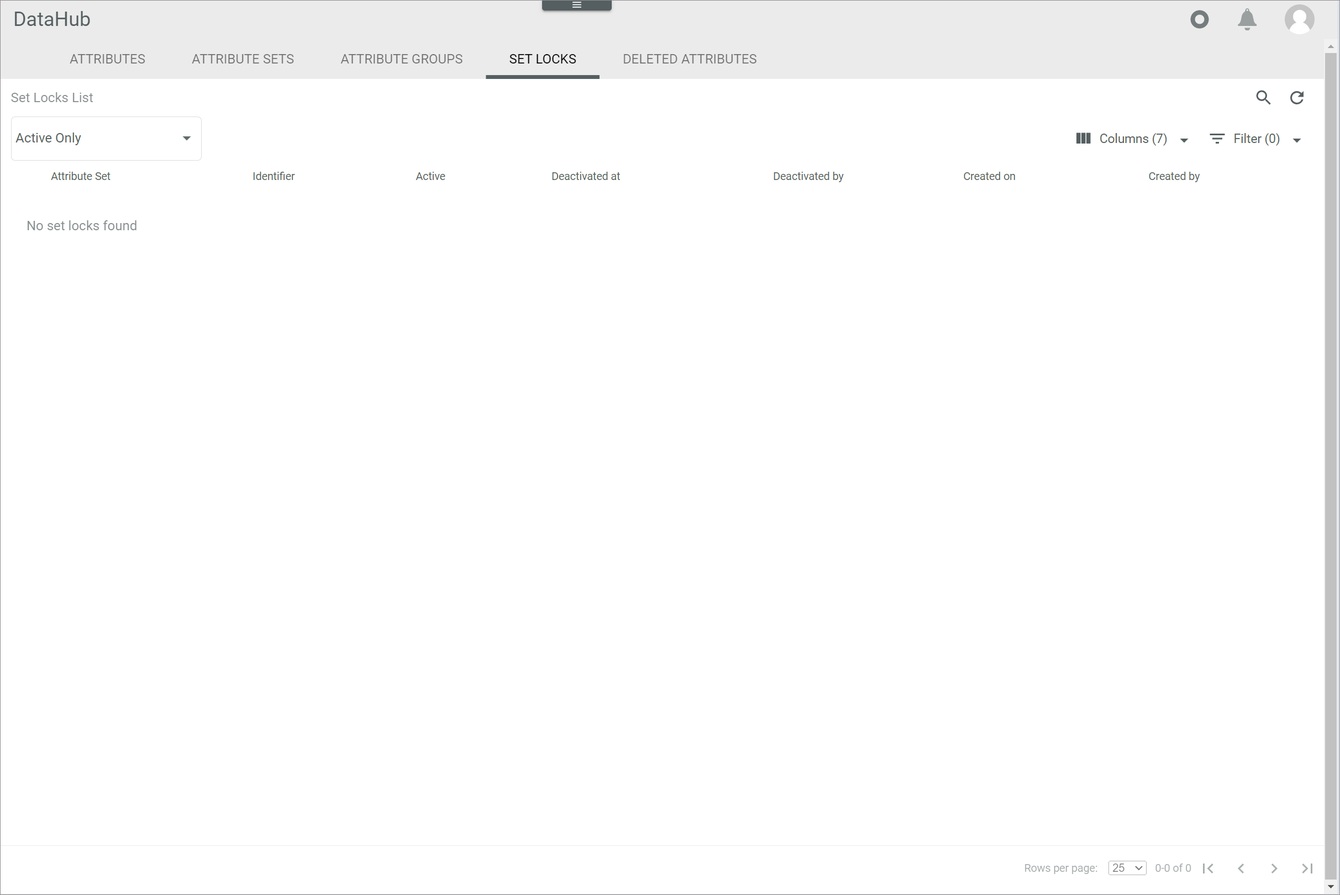
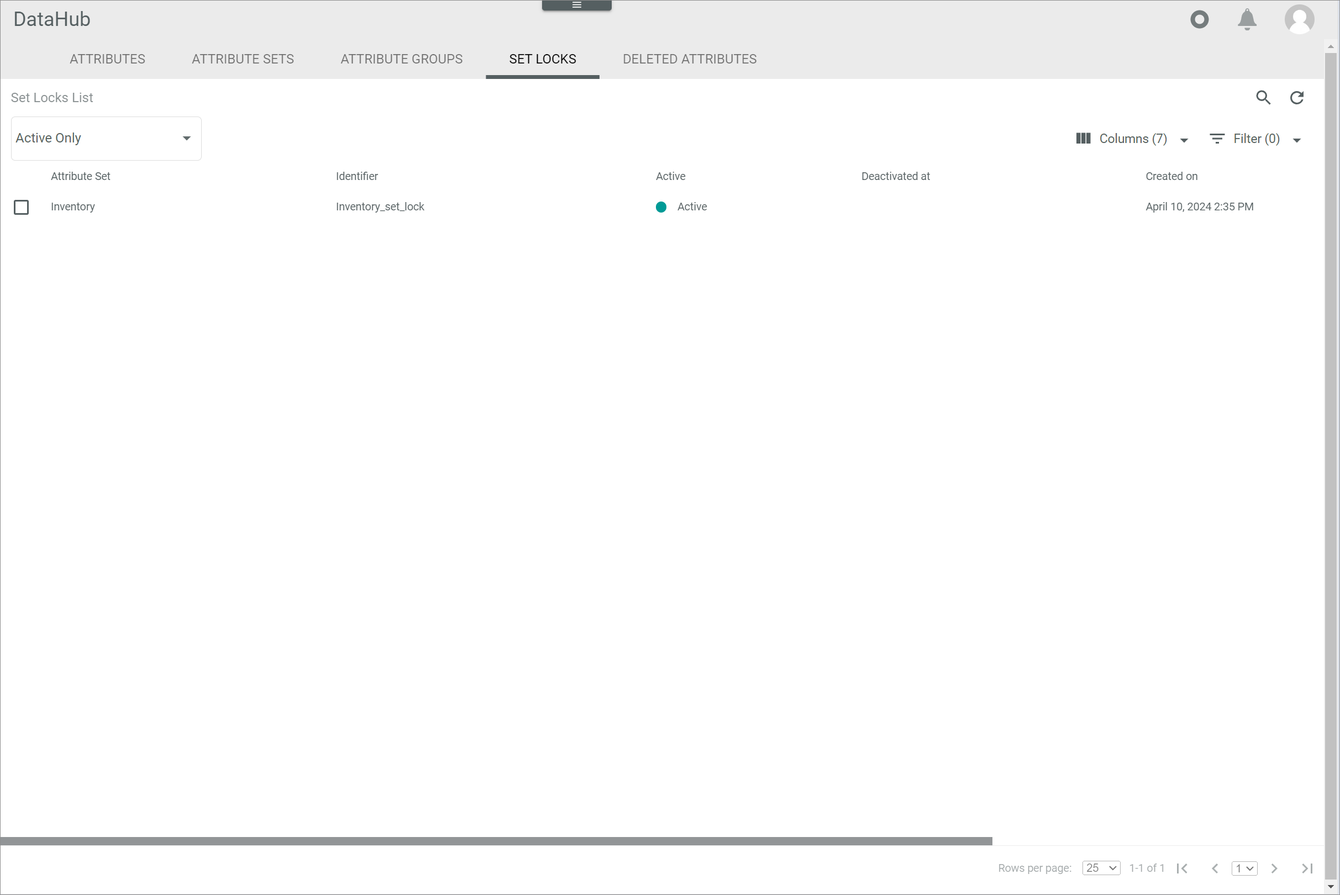
ACD-1041
Docu review corrections

diff --git a/DataHub/Integration/01_ManageAttributes.md b/DataHub/Integration/01_ManageAttributes.md
@@ -2,17 +2,19 @@
 [!!User interface Attributes](../UserInterface/01a_Attributes.md)
 [!!Data type list](../UserInterface/05_DataTypeList.md)
 [!!Manage a product in PIM](../../PIM/Operation/01_ManageProducts.md)
-[!!Manage a variant set in PIM](../../PIM/Integration/07_ManageVariantSets.md)
 
 # Manage an attribute
 
-An attribute defines a characteristic to describe a product. You can create attributes, edit attributes, and deactivate or delete attributes that are not in use.
-Further, you can add attributes to an attribute set or remove them from an attribute set.  
+An attribute defines a characteristic to describe an entity, for example, a *PIM* product or a *Fulfillment* dispatch note. When describing a product, you need attributes such as *Name*, *Price*, and *SKU*. To describe a dispatch note, on the other hand, you may use attributes such as *Carrier*, *Shipment status*, and *Tracking number*. The entity attributes are then provided with a value in the specific entity, such as an individual product. For example, a black shirt in size M has a name (Actindo shirt), a price (50.00 EUR), and an SKU (BLK-ACT-SHIRT-M), all its specific attributes and values that describe that individual product. 
+
+[comment]: <> (Simon: Bitte prüfen und bestätigen)
+
+You can create attributes, edit attributes, and deactivate or delete attributes that are not in use. Further, you can add attributes to an attribute set or remove them from an attribute set.  
 In the *DataHub* module, attributes from all plugins are displayed.
 
 ## Create an attribute
 
-Create an attribute to specify a new property for a product.
+Create an attribute to specify a new property for an entity type.
 
 #### Prerequisites
 
@@ -33,14 +35,14 @@ No prerequisites to fulfill.
 
     > [Info] If you want to provide the attribute name and description in different languages in the system, you can select the desired system language in the "Language" drop-down list on top of this view. By default, the following options are currently available: English (United States) and Deutsch (Deutschland). 
 
-[comment]: <> (zu prüfen) 
+[comment]: <> (Simon: Bitte prüfen) 
 
 3. Select a data type in the *Data type* drop-down list.   
     Depending on the selected data type, the *Contains sensitive data* toggle and the *CONFIGURATION* section are displayed. For detailed information about all data types, see [Data type list](../UserInterface/05_DataTypeList.md). 
 
    > [Info] The settings displayed in the *CONFIGURATION* section depend on the selected data type.
 
-4. Enter a key for the attribute in the *Key* field. The key is required for API access and must be system wide unique. An attribute key must fulfill the following criteria:
+4. Enter a key for the attribute in the *Key* field. The key is required for API access and must be system-wide unique. An attribute key must fulfill the following criteria:
     - valid characters are **a-z** (upper and lower case), **0-9** and the underscore ( **_** )
     - the key must not start with a number
     - a double underscore ( **___** ) and a trailing underscore are forbidden
@@ -51,7 +53,7 @@ No prerequisites to fulfill.
 
 5. If desired, enable the *Multi-language* toggle to assign values in multiple languages to the attribute or enable the *Multi-scope* toggle to assign different attribute values in different scopes.
 
-    > [Info] Be aware that only attributes which are neither multi-language nor multi-scope can be used as defining attributes for variants. For detailed information, see [Create a variant set](../../PIM/Integration/07_ManageVariantSets.md#create-a-variant-set).
+    > [Info] Be aware that only attributes which are neither multi-language nor multi-scope can be used as defining attributes for variants. For detailed information, see [Create a variant set](../Integration/07_ManageVariantSets.md#create-a-variant-set).
 
 6. If required, enable the *Contains sensitive data* toggle if the potential attribute values may be sensitive, such as name, date of birth, or zip code.
 
@@ -85,7 +87,7 @@ The attribute key is locked but can be modified in exceptional cases, for exampl
 
 > [Caution] Attribute keys are used for API access. Changing the attribute key, which is strongly discouraged, has an impact on the API naming for all affected entities where this attribute is included. That means that all external API consumers, workflows, webhooks, or other custom code need to be adjusted accordingly in case any of them address this attribute.
 
-[comment]: <> (zu prüfen)
+[comment]: <> (Simon: Bitte prüfen)
 
 The assignment of an attribute to an attribute set must be changed in the attribute set itself, see [Edit an attribute set](./02_ManageAttributeSets.md#edit-an-attribute-set).   
 
@@ -123,7 +125,7 @@ At least one attribute has been created, see [Create an attribute](#create-an-at
 
 ## Deactivate an attribute
 
-It is recommended to deactivate an attribute instead of deleting it to prevent any problems because of existing dependencies. If you deactivate an attribute, it is no longer available for new attribute sets and it is hidden in existing products with this attribute.   
+It is recommended to deactivate an attribute instead of deleting it to prevent any problems because of existing dependencies. If you deactivate an attribute, it is no longer available for new attribute sets and it is hidden in existing entities with this attribute.   
 
 However, the values previously stored in an attribute are not deleted when the attribute is deactivated. As soon as the attribute is reactivated, the stored values are also visible again.   
 
@@ -159,9 +161,9 @@ At least one attribute has been created, see [Create an attribute](#create-an-at
 
 ## Delete an attribute
 
-You can move an attribute to the *DELETED ATTRIBUTES* tab if it is no longer needed. Attributes that are assigned as defining attributes to any variant set cannot be deleted. 
+You can move an attribute to the *DELETED ATTRIBUTES* tab if it is no longer needed. Attributes that are assigned as defining attributes to any variant set cannot be deleted. For detailed information on variant sets, see [Manage a variant set](./07_ManageVariantSets.md). 
 
-As there are usually dependencies on an attribute, for example through an attribute set or created products, it is strongly recommended not to delete an attribute. Instead, you can deactivate an attribute and thus prevent its use, see [Deactivate an attribute](#deactivate-an-attribute).
+As there are usually dependencies on an attribute, for example, through an attribute set or created products, it is strongly recommended not to delete an attribute. Instead, you can deactivate an attribute and thus prevent its use, see [Deactivate an attribute](#deactivate-an-attribute).
 
 #### Prerequisites
 

diff --git a/DataHub/Integration/02_ManageAttributeSets.md b/DataHub/Integration/02_ManageAttributeSets.md
@@ -5,8 +5,11 @@
 
 # Manage an attribute set
 
-An attribute set consists of multiple attributes to classify certain products according to demand or production contexts.
-Several plugins may bring their own attribute sets as a starting point for the tenant's configuration, such as the *PIM* module.
+An attribute set consists of multiple attributes to classify entities, such as the different types of products, according to demand or production contexts. For example, if you are selling clothes, you may need to define an attribute set for shirts and another one for trousers. The attributes contained in each attribute set will differ, as the shirts will include the attribute *Collar size*, whereas the trousers will have the attribute *Waist size*. The same is valid for other entities, such as dispatch notes or packaging types. You can define different types on these entities depending on your specific needs.
+
+Several plugins may bring their own attribute sets as a starting point for the tenant's configuration, such as *PIM basic set* in the *PIM* module or the *Packaging type basic set* in the *Fulfillment* module.
+
+[comment]: <> (Simon: Bitte prüfen und bestätigen)
 
 You can create attribute sets, edit existing attribute sets and deactivate attribute sets that are not in use.
 You can add attributes to or remove attributes from an attribute set and change the required attributes within an attribute set.
@@ -43,7 +46,7 @@ Additional attributes for the attribute set have been created, see [Create an at
 
     > [Info] If you want to provide the attribute set name and description in different languages in the system, you can select the desired system language in the "Language" drop-down list on top of this view. By default, the following options are currently available: English (United States) and Deutsch (Deutschland). 
 
-3. Enter a key for the attribute set in the *Key* field. The key is required for API access and must be system wide unique. An attribute set key must fulfill the following criteria:
+3. Enter a key for the attribute set in the *Key* field. The key is required for API access and must be system-wide unique. An attribute set key must fulfill the following criteria:
     - valid characters are **a-z** (upper and lower case), **0-9** and the underscore ( **_** )
     - the key must not start with a number
     - a double underscore ( **___** ) and a trailing underscore are forbidden
@@ -149,7 +152,9 @@ After you have created an attribute set, you can edit it.
 Depending on the selected inheritance type, only a certain number of attributes may be editable.
 However, you can add further attributes to an attribute set or remove unmapped attributes from an attribute set.
 
-> [Info] If the *Locked* toggle is enabled, this means that the attribute set is currently undergoing maintenance and therefore cannot be edited. An overview of all locked attribute sets is displayed in the *SET LOCKS* tab, see [Attribute set locks](../UserInterface/01d_AttributeSetLocks.md).
+> [Info] If the *Locked* toggle is enabled, this means that the attribute set is currently undergoing maintenance. No entity that is assigned to this attribute set can be read or written as long as the lock is in place. An overview of all locked attribute sets is displayed in the *SET LOCKS* tab, see [Attribute set locks](../UserInterface/01d_AttributeSetLocks.md).
+
+[comment]: <> (Simon: Bitte prüfen: In Attribute set list Ansicht, gibt es ein LOCK-Button im Editing Toolbar. Das sollte aber abgebaut werden, da die LOCK-Funktion eine interne Housekeeping-Maßnahme sein soll. RS mit Julian dazu. Bitte bestätigen.)
 
 ### Add an attribute to the set
 
@@ -220,9 +225,11 @@ Inherited attributes or mapped attributes cannot be removed from an attribute se
 
 ### Change the required attributes in the set
 
-The product completeness is calculated depending on the required attributes within an attribute set.
+The entity completeness, such as the product completeness in the *PIM* module, is calculated depending on the required attributes within an attribute set.
 All required attributes are marked with a *(required)* indication in the product view.
-Note that entities can be saved even if not all *(required)* attributes are completed.   
+Note that entities can be saved even if not all *(required)* attributes are completed.  
+
+[comment]: <> (Simon: Bitte prüfen: entity completeness ist korrekt, also, completeness calculation ist möglich für alle Entitäten gelten, sobald man ein Attribut des Datentypen Completeness im Satz gesetzt ist. Richtig?)
 
 You can define whether an attribute should be required or not.
 Bear in mind that inherited attributes can only be changed in the origin attribute set and the required status is also inherited to the linked attribute sets.   

diff --git a/DataHub/Integration/07_ManageVariantSets.md b/DataHub/Integration/07_ManageVariantSets.md
@@ -9,7 +9,7 @@ You can create a variant set for a *PIM* product or an *Omni-Channel* offer. A v
 
 You can manage the variant sets both in the *PIM* and the *Omni-Channel* modules depending on your specific module configuration, since the two modules are independent of each other. If both the *Omni-Channel* and the *PIM* modules are used, there is a predefined mapping that automatically applies the variant sets from *PIM* to *Omni-Channel*. Otherwise, you can manage the variant sets directly in your *Omni-Channel* module. The data displayed differ slightly, as only the attributes that are relevant for *PIM* or *Omni-Channel* are displayed in the respective module. The functionality itself, however, is based on the data models defined in the *DataHub* module. 
 
-[comment]: <> (zu prüfen)
+[comment]: <> (Simon: Bitte prüfen:)
 
 
 ## Create a variant set
@@ -47,15 +47,15 @@ An attribute set has been created, see [Create an attribute set](./02_ManageAttr
 
     ![Formulas](../../Assets/Screenshots/DataHub/Others/Formulas.png "[Formulas]")
 
-4. Enter a formula for the variants SKU in the *Formula for SKU* field using the displayed placeholders. By default, you can enter the formula **{master}-{L}**.   
+4. If desired, enable the *Copy values of changeable attributes to variant when creating a new variant* toggle. It is recommended to enable it.
+
+    > [Info] This feature makes it easier for you to link independently created products and establish a master-variant relationship between them. For example, if you have the same T-shirt in different colors, all the colored T-shirts should be subordinated as variants to a master T-shirt. If this toggle is enabled, the changeable attributes values, which are different per variant, are copied from the parent entity when creating a new variant, so that you just have to update the values if necessary. 
+
+[comment]: <> (Simon: Bitte prüfen: Kopiert vom Master-Entität ist richtig? Bitte prüfen und ggf. korrigieren/ergänzen.)
+
+5. Enter a formula for the variants SKU in the *Formula for SKU* field using the displayed placeholders. By default, you can enter the formula **{master}-{L}**.   
 
     > [Info] The value of the defining attributes can be included into the SKU formula. When you have added a defining attribute, the corresponding placeholder for this attribute is displayed in the *Formulas* section.
-
-5. If desired, enable the *Copy values of changeable attributes to variant when creating a new variant* toggle. It is recommended to enable it.
-
-    > [Info] This feature makes it easier for you to associate independently created products and create a master-variant relationship between them. For example, if you have the same T-shirt in different colors, all the color T-shirts should be added as variants to a master T-shirt. If this toggle is enabled, the changeable attributes and its values, which are different pro variant, are copied once when creating the variant, so that you just have to update the values if necessary. 
-
-[comment]: <> (zu prüfen)
 
 6. For the next steps to create a variant set, follow the procedures below:   
     - [Add defining attributes](#add-defining-attributes)
@@ -65,6 +65,10 @@ An attribute set has been created, see [Create an attribute set](./02_ManageAttr
 
 
 ### Add defining attributes
+
+A defining attribute is the characteristic that defines the variation of an entity. For example, in the case of a *PIM* product, such as a piece of clothing, color or size can be defining attributes. 
+
+[comment]: <> (Simon: Bitte prüfen und ggf. ergänzen/verbessern)
 
 You have to select at least one defining attribute to create a variant set. You can only select attributes as defining attributes that are neither multi-language nor multi-channel and that are assigned to the selected attribute set.
 
@@ -105,6 +109,10 @@ You have to select at least one defining attribute to create a variant set. You 
 
 
 ### Add changeable attributes
+
+Unlike defining attributes, changeable attributes do not define the variation within a master entity. They are simply additional characteristics that can differ between the different variants entities. For example, in the case of a *PIM* product, EAN code, stock amount, image, or price can be changeable attributes.
+
+[comment]: <> (Simon: Bitte prüfen und ggf. ergänzen/verbessern)
 
 You can select changeable attributes for a variant set. If you want to define an attribute for the variants whose value may differ from its master product value, you have to define this attribute as a changeable attribute.
 

diff --git a/DataHub/UserInterface/01a_Attributes.md b/DataHub/UserInterface/01a_Attributes.md
@@ -119,7 +119,7 @@ The *Create attribute* view contains all fields and configurations that define t
     Click the drop-down list and select an attribute data type. The ![Add](../../Assets/Icons/Plus05.png "[Add]") (Add) button in the *Assigned attribute sets* field is unlocked.   
 
 - *Key*   
-    Enter an attribute key. The key is required for API access and must be system wide unique. An attribute key must fulfill the following criteria:
+    Enter an attribute key. The key is required for API access and must be system-wide unique. An attribute key must fulfill the following criteria:
     - valid characters are **a-z** (upper and lower case), **0-9** and the underscore ( **_** )
     - the key must not start with a number
     - a double underscore ( **___** ) and a trailing underscore are forbidden
@@ -136,7 +136,7 @@ The *Create attribute* view contains all fields and configurations that define t
     Enable this toggle to set the attribute status to active. Disable the toggle to set the status to inactive. By default, this toggle is enabled.
 
 - ![Toggle](../../Assets/Icons/Toggle.png "[Toggle]") *Contains sensitive data*   
-    Enable this toggle if the potential attribute values may be sensitive. This toggle is only displayed after selecting certain data types in the *Data type* drop-down list. By default, this toggle is disabled.
+    Enable this toggle if the attribute values may be sensitive. This toggle is only displayed after selecting certain data types in the *Data type* drop-down list. By default, this toggle is disabled.
 
 - *Assigned attribute sets*   
     Click the drop-down list and select an attribute set to which the attribute is assigned after creation. All active attribute sets are displayed. This drop-down list is only displayed if you have previously clicked the ![Add](../../Assets/Icons/Plus05.png "[Add]") (Add) button.
@@ -211,7 +211,7 @@ The *Edit attribute* view contains all fields and configurations that define the
     Enable this toggle to set the attribute status to active. Disable the toggle to set the status to inactive. By default, this toggle is enabled.
 
 - ![Toggle](../../Assets/Icons/Toggle.png "[Toggle]") *Contains sensitive data*   
-    Enable this toggle if the potential attribute values may be sensitive. By default, this toggle is disabled.
+    Enable this toggle if the attribute values may be sensitive. By default, this toggle is disabled.
 
 **CONFIGURATION**
 
@@ -244,10 +244,13 @@ The list displays all attributes. Depending on the settings, the displayed colum
     - ![Cross](../../Assets/Icons/Cross02.png "[Cross]") (Cross): The attribute is not inherited.
 
 - *Calculated field*   
-    Indication whether the attribute (field) value is calculated by an ETL mapping from other field(s) in the same entity to itself or not:
+    Indication whether the attribute is a *Calculated field* in the attribute set or not. 
     - ![Check](../../Assets/Icons/Check.png "[Check]") (Checkmark): The attribute is a calculated field.   
     - ![Cross](../../Assets/Icons/Cross02.png "[Cross]") (Cross): The attribute is no calculated field.
 
+    > [Info] The value of an attribute marked as "Calculated field" is not manually modified. Instead of that, the value is calculated, through an ETL mapping, from other attribute or attributes in the same entity.
+
+[comment]: <> (Simon: Bitte prüfen. Kann man das im UI einstellen? Oder Ist ein Interner Datentyp?)
 
 ### Update attribute key
 

diff --git a/DataHub/UserInterface/08_VariantSets.md b/DataHub/UserInterface/08_VariantSets.md
@@ -120,7 +120,7 @@ The following functions and fields are available in this box:
     Attribute name.
 
 - *Key*   
-    Attribute key. The key is required for API access and must be system wide unique.
+    Attribute key. The key is required for API access and must be system-wide unique.
 
 - *Data type*   
     Attribute data type.   
@@ -150,7 +150,7 @@ The following functions and fields are available in this box:
     Attribute name.
 
 - *Key*   
-    Attribute key. The key is required for API access and must be system wide unique.
+    Attribute key. The key is required for API access and must be system-wide unique.
 
 - *Data type*   
     Attribute data type.   
@@ -219,7 +219,7 @@ The following functions and fields are available in this box:
     Attribute name.
 
 - *Key*   
-    Attribute key. The key is required for API access and must be system wide unique.
+    Attribute key. The key is required for API access and must be system-wide unique.
 
 - *Data type*   
     Attribute data type.   
@@ -249,7 +249,7 @@ The following functions and fields are available in this box:
     Attribute name.
 
 - *Key*   
-    Attribute key. The key is required for API access and must be system wide unique.
+    Attribute key. The key is required for API access and must be system-wide unique.
 
 - *Data type*   
     Attribute data type.   
@@ -290,7 +290,7 @@ The following functions and fields are available in this view:
     Attribute name.
 
 - *Key*   
-    Attribute key. The key is required for API access and must be system wide unique.
+    Attribute key. The key is required for API access and must be system-wide unique.
 
 - *Data type*   
     Attribute data type.    
@@ -328,7 +328,7 @@ The following functions and fields are available in this view:
     Attribute name.
 
 - *Key*   
-    Attribute key. The key is required for API access and must be system wide unique.
+    Attribute key. The key is required for API access and must be system-wide unique.
 
 - *Data type*   
     Attribute data type.   

diff --git a/DataHub/UserInterface/06_AttributesTab.md b/DataHub/UserInterface/06_AttributesTab.md
@@ -12,7 +12,7 @@ This tab is not part of the *DataHub* module, but it is used in many other *Core
 
 The list displays all attributes that define the selected entity. An entity is a data object that can be identified uniquely and is defined by means of its attributes. An entity can be a *PIM* product or an *Omni-Channel* offer, but also a business document, such as a dispatch note. 
 
-Depending on the entity, you can edit different attribute values. For example, in the case of the entity *PIM* single product, displayed in the screenshot, you can edit the product name, the long text, EAN code, assign images for a product, etc. The attribute values you can edit vary from one entity to another. The fields of the attribute values that cannot be edited are locked. To edit an attribute or create a new one, you have to go to the *DataHub* module. For detailed information, see [Manage the attributes](../Integration/01_ManageAttributes.md).     
+Depending on the entity, you can edit different attribute values. For example, in the case of the entity *PIM* single product, displayed in the screenshot, you can edit the product name, the long text, EAN code, assign images to a product, etc. The attribute values you can edit vary from one entity to another. Tne, you can use the *DataHub* module or the *PIM* module for product-related attributes. For detailed information, see [Manage the attributes](../Integration/01_ManageAttributes.md).     
 
 In the left margin column, all available attribute groups of the entity are displayed. Click an attribute group to display the attributes that are assigned to this group on the right side of the *Attributes* tab. If the entity contains attributes that are not assigned, the *Unassigned group* attribute group is automatically displayed in the left margin column.
 

diff --git a/DataHub/UserInterface/03b_Languages.md b/DataHub/UserInterface/03b_Languages.md
@@ -71,7 +71,7 @@ The following functions and fields are available in this view:
     Enter a language name in the selected language.
 
 - *Key*   
-    Enter a language key. The key is required for API access and must be system wide unique. The language key must fulfill the criteria of the language codes according to [RFC 4646](https://www.heise.de/netze/rfc/rfcs/rfc4646.shtml). For instance, keys with the following structure are valid:
+    Enter a language key. The key is required for API access and must be system-wide unique. The language key must fulfill the criteria of the language codes according to [RFC 4646](https://www.heise.de/netze/rfc/rfcs/rfc4646.shtml). For instance, keys with the following structure are valid:
     - **en**
     - **en_US**
     - **en-US**
@@ -108,7 +108,7 @@ The following functions and fields are available in this view:
 
 - *Key*   
     Click the field to edit the language key. It is not recommended to change the language key after creation.   
-    The key is required for API access and must be system wide unique. The language key must fulfill the criteria of the language codes according to [RFC 4646](https://www.heise.de/netze/rfc/rfcs/rfc4646.shtml). For instance, keys with the following structure are valid:
+    The key is required for API access and must be system-wide unique. The language key must fulfill the criteria of the language codes according to [RFC 4646](https://www.heise.de/netze/rfc/rfcs/rfc4646.shtml). For instance, keys with the following structure are valid:
     - **en**
     - **en_US**
     - **en-US**

diff --git a/DataHub/UserInterface/01b_AttributeSets.md b/DataHub/UserInterface/01b_AttributeSets.md
@@ -106,7 +106,7 @@ The *Create attribute set* view contains all the fields and configurations that 
     Enter a description to the attribute set in the selected language.
 
 - *Key*   
-    Enter an attribute set key. The key is required for API access and must be system wide unique. An attribute set key must fulfill the following criteria:
+    Enter an attribute set key. The key is required for API access and must be system-wide unique. An attribute set key must fulfill the following criteria:
     - valid characters are **a-z** (upper and lower case), **0-9** and the underscore ( **_** )
     - the key must not start with a number
     - a double underscore ( **___** ) and a trailing underscore are forbidden
@@ -229,9 +229,11 @@ The following functions and fields are available in this section:
     Attribute name.
 
 - *Calculated field*   
-    Indication whether the attribute (field) value is calculated by an ETL mapping from other field(s) in the same entity to itself or not:
+    Indication whether the attribute is a *Calculated field* in the attribute set or not. 
     - ![Check](../../Assets/Icons/Check.png "[Check]") (Checkmark): The attribute is a calculated field.   
     - ![Cross](../../Assets/Icons/Cross02.png "[Cross]") (Cross): The attribute is no calculated field.
+
+    > [Info] The value of an attribute marked as "Calculated field" is not manually modified. Instead of that, the value is calculated, through an ETL mapping, from other attribute or attributes in the same entity.
 
 - *Key*   
     Attribute key.

diff --git a/DataHub/UserInterface/01d_AttributeSetLocks.md b/DataHub/UserInterface/01d_AttributeSetLocks.md
@@ -22,23 +22,19 @@ The attribute set locks list displays all attribute sets that have been locked f
     Name of the attribute set locked for maintenance.
 
 - *Identifier*  
-    Attribute set identification number.
-
-[comment]: <> (Stimmt das so? Vgl. unten ID-Spalte)
+    Attribute set lock unique identifier. 
 
 - *Active*  
-    Indication whether the attribute set lock is active or not:
-    - ![Check](../../Assets/Icons/Check.png "[Check]") (Checkmark): The attribute set lock is active.  
-    - ![Cross](../../Assets/Icons/Cross02.png "[Cross]") (Cross): The attribute set lock is not active.
+    Indication whether the attribute set lock is currently in place (*Active*) or not (*Inactive*). If the attribute set lock is listed as *Active*, the corresponding attribute set cannot be edited in the *ATTRIBUTE SET* tab, see [Edit an attribute set](../Integration/02_ManageAttributeSets.md#edit-an-attribute-set).   
 
 - *Deactivated at*    
-    Date and time of the last deactivation.
+    Date and time of the attribute set lock deactivation.
 
 - *Deactivated by*  
     Name and username of the user who deactivated the attribute set lock.
 
 - *Created on*   
-    Date and time of the creation.
+    Date and time of the attribute set lock creation.
 
 - *Created by*   
     Name and username of the user who created the attribute set lock.

diff --git a/DataHub/UserInterface/07_DependenciesTab.md b/DataHub/UserInterface/07_DependenciesTab.md
@@ -4,7 +4,7 @@
 
 ![Dependencies](../../Assets/Screenshots/DataHub/Others/Dependencies.png)
 
-This tab is not part of the *DataHub* module, but it is used in many other *Core1 Platform* modules that refer to information coming from the the *DataHub* module.  
+This tab is not part of the *DataHub* module, but it is used in many other *Core1 Platform* modules that refer to information coming from the *DataHub* module.  
 
 **Dependencies**
 
@@ -37,7 +37,7 @@ The following functions are available for the editing toolbar:
 - [RERUN MAPPING]   
     Click this button to rerun the mapping of the selected entity or entities. This button is only displayed if the checkbox of at least one dependency is selected.
 
-[comment]: <> (Kommt hier ein Bestätigungsfenster wie im ETL mapping? In der Sandbox funktioniert nicht oder passiert nichts.)
+[comment]: <> (Simon: Kommt hier ein Bestätigungsfenster wie im ETL mapping? In der Sandbox funktioniert nicht oder passiert nichts.)
 
 - [DELETE DEPENDENCY]  
     Click this button to delete the dependency of the selected entity. This button is only displayed if the checkbox of one dependency is selected. 

diff --git a/DataHub/Integration/05_ManageLanguages.md b/DataHub/Integration/05_ManageLanguages.md
@@ -31,7 +31,7 @@ No prerequisites to fulfill.
 
     > [Info] If you want to provide the language name and description in different languages in the system, you can select the desired system language in the "Language" drop-down list on top of this view. By default, the following options are currently available: English (United States) and Deutsch (Deutschland). 
 
-3. Enter a key for the language in the *Key* field. The key is required for API access and must be system wide unique. The language key must fulfill the criteria of the language codes according to [RFC 4646](https://www.heise.de/netze/rfc/rfcs/rfc4646.shtml "[https://www.heise.de/netze/rfc/rfcs/rfc4646.shtml]"). For instance, keys with the following structure are valid:
+3. Enter a key for the language in the *Key* field. The key is required for API access and must be system-wide unique. The language key must fulfill the criteria of the language codes according to [RFC 4646](https://www.heise.de/netze/rfc/rfcs/rfc4646.shtml "[https://www.heise.de/netze/rfc/rfcs/rfc4646.shtml]"). For instance, keys with the following structure are valid:
     - en
     - en_US
     - en-US

diff --git a/DataHub/Integration/04_ManageScopes.md b/DataHub/Integration/04_ManageScopes.md
@@ -34,7 +34,7 @@ No prerequisites to fulfill.
 
     > [Info] If you want to provide the scope name and description in different languages in the system, you can select the desired system language in the "Language" drop-down list on top of this view. By default, the following options are currently available: English (United States) and Deutsch (Deutschland). 
 
-3. Enter a key for the scope in the *Key* field. The key is required for API access and must be system wide unique. A scope key must fulfill the following criteria:
+3. Enter a key for the scope in the *Key* field. The key is required for API access and must be system-wide unique. A scope key must fulfill the following criteria:
     - valid characters are **a-z** (upper and lower case), **0-9** and the underscore ( **_** )
     - the key must not start with a number
     - a double underscore ( **___** ) and a trailing underscore are forbidden
